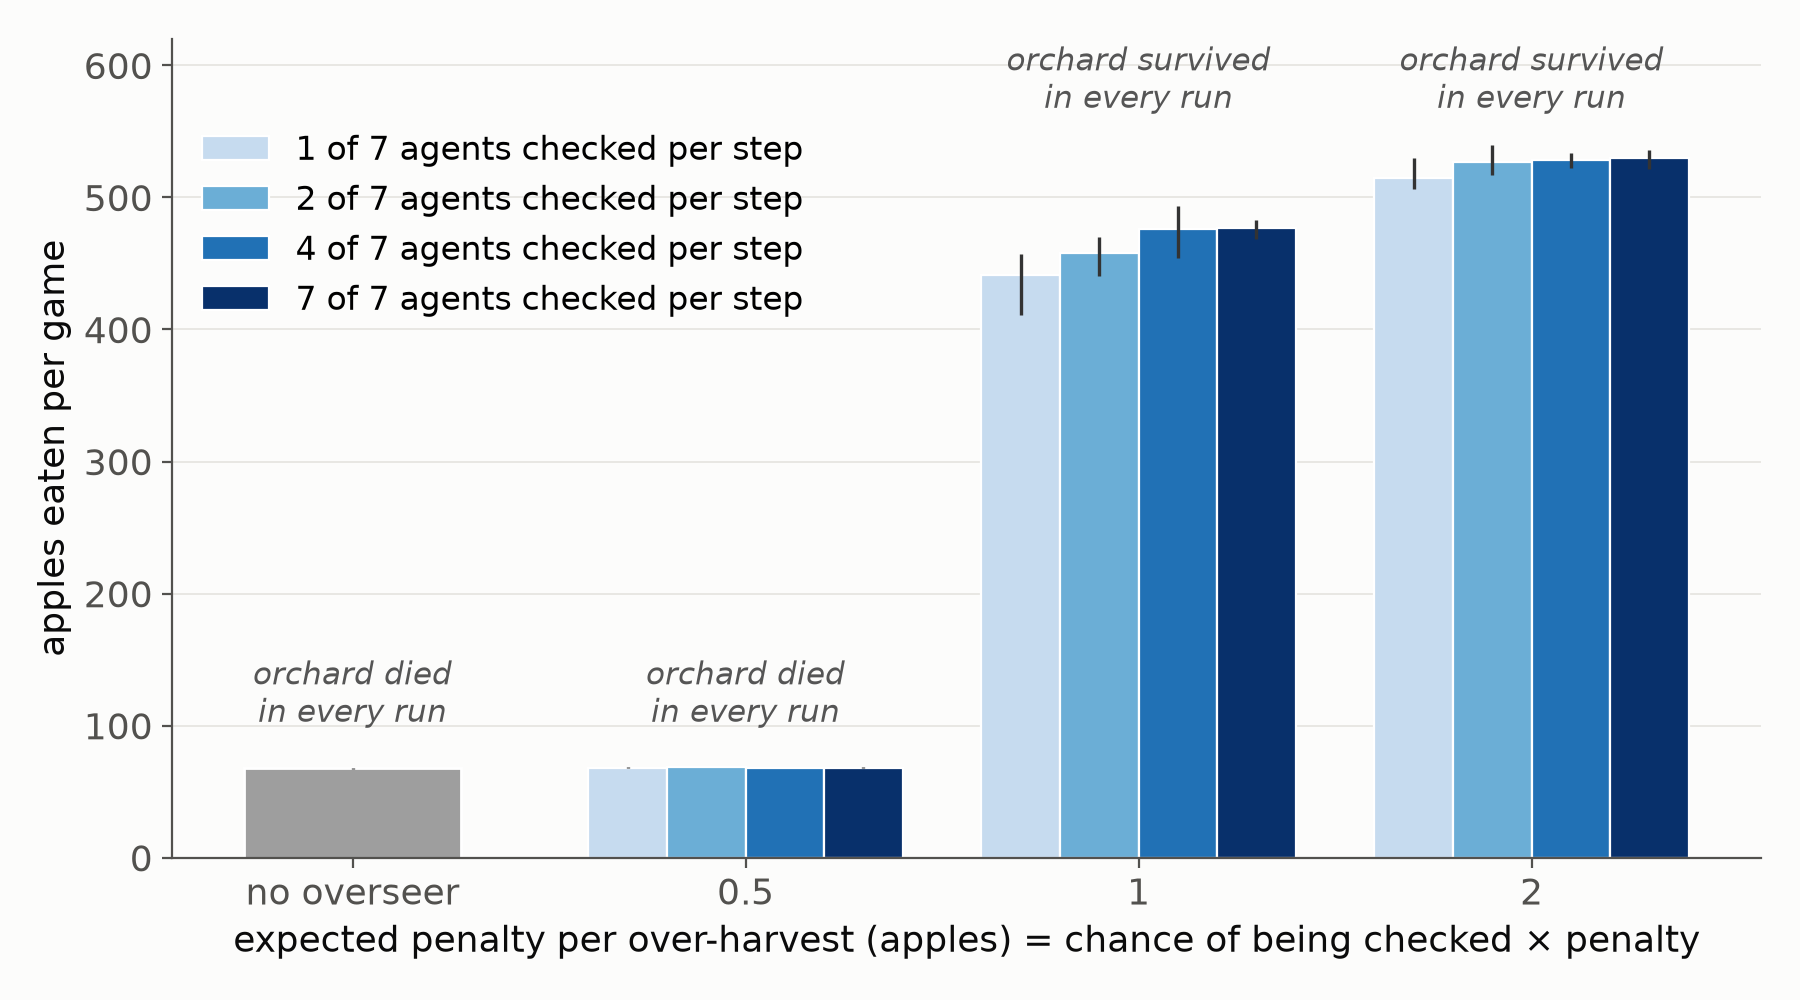
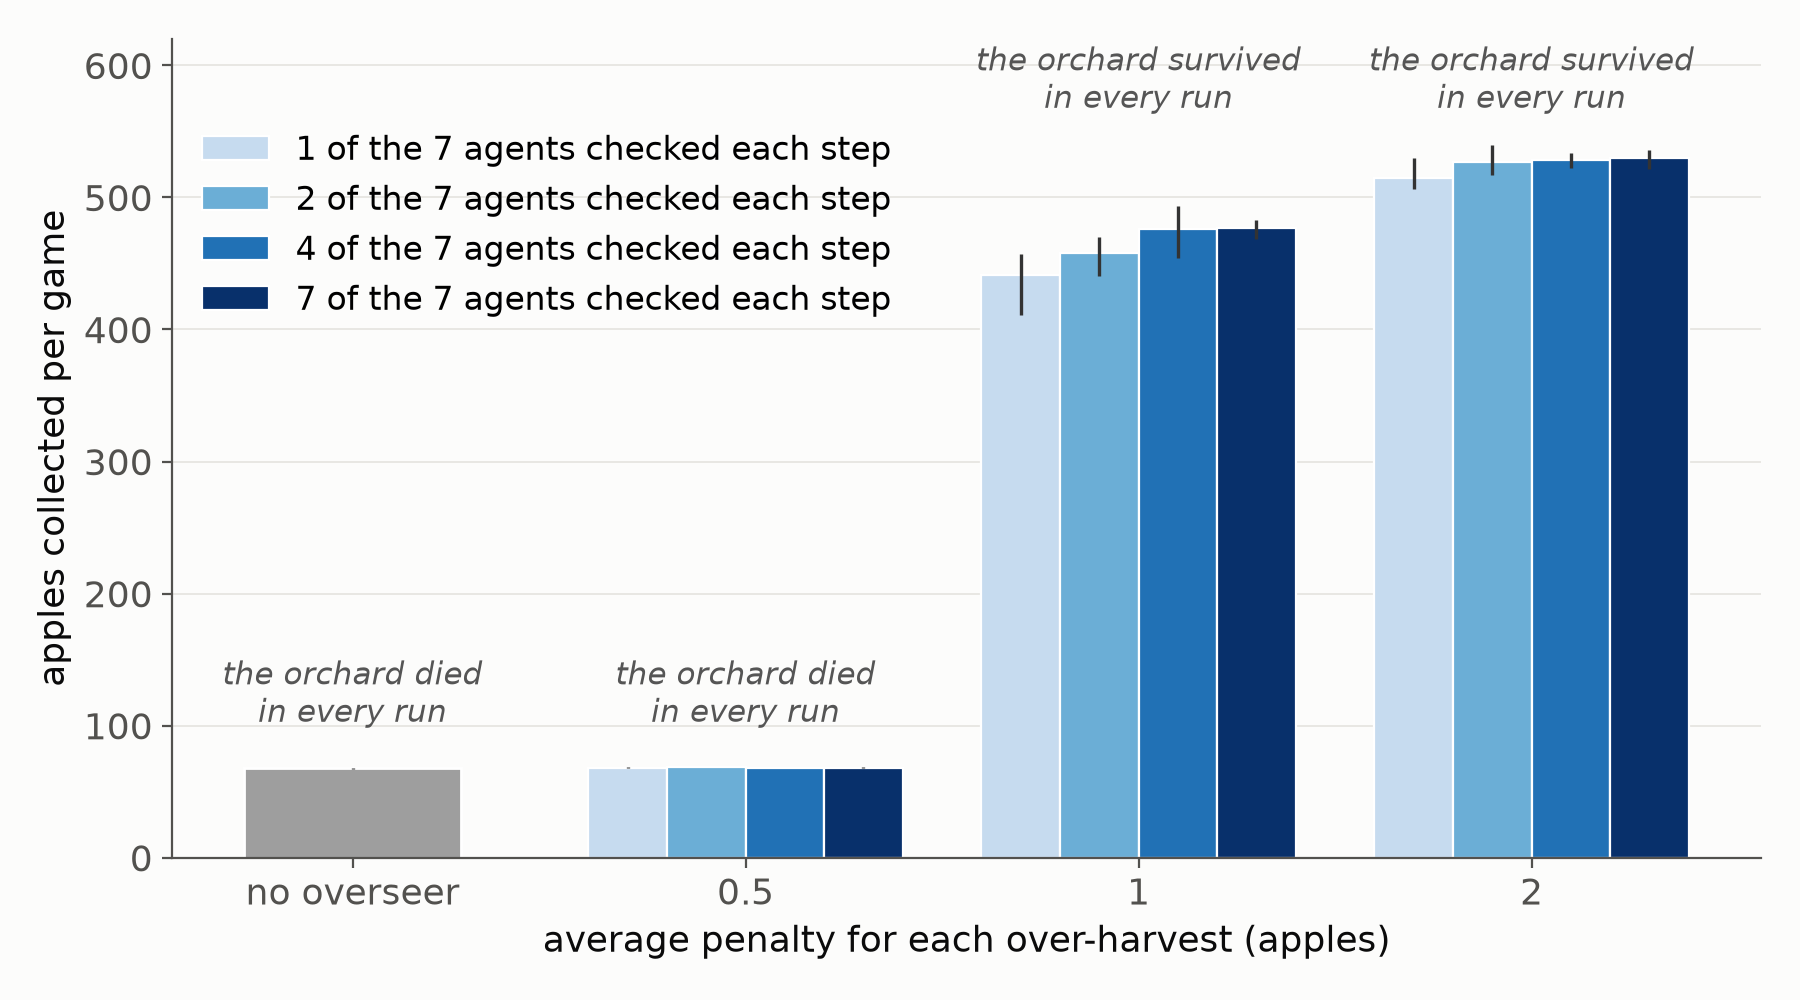
Weekly deck v3: plain spoken wording (no colons or shorthand), paper slides checked against full text (Willis: aggression usually disadvantaged), plain-label bot chart, average-penalty wording

diff --git a/notes/slides/2026-11-16_weekly_update/make_figures.py b/notes/slides/2026-11-16_weekly_update/make_figures.py
@@ -82,16 +82,15 @@ def penalty_bars():
             r = t[f"B_random_k{k}_c{c}"]["apples_eaten"]
             x = 1 + j + (i - 1.5) * w
             ax.bar(x, r["mean"], w, color=col, edgecolor="white", linewidth=0.8,
-                   label=f"{k} of 7 agents checked per step" if j == 0 else None)
+                   label=f"{k} of the 7 agents checked each step" if j == 0 else None)
             ax.errorbar(x, r["mean"], [[r["mean"] - r["lo"]], [r["hi"] - r["mean"]]], color="#333333", lw=1.2, capsize=0)
-    for x, txt in ((0, "orchard died\nin every run"), (1, "orchard died\nin every run"),
-                   (2, "orchard survived\nin every run"), (3, "orchard survived\nin every run")):
+    for x, txt in ((0, "the orchard died\nin every run"), (1, "the orchard died\nin every run"),
+                   (2, "the orchard survived\nin every run"), (3, "the orchard survived\nin every run")):
         y = 95 if x < 2 else 560
         ax.text(x, y, txt, ha="center", va="bottom" if x < 2 else "bottom", fontsize=11, color="#555555", style="italic")
     ax.set_xticks(range(4), ["no overseer", "0.5", "1", "2"])
     ax.set_ylim(0, 620)
-    ax.set(xlabel="expected penalty per over-harvest (apples) = chance of being checked × penalty",
-           ylabel="apples eaten per game")
+    ax.set(xlabel="average penalty for each over-harvest (apples)", ylabel="apples collected per game")
     ax.legend(loc="upper left", frameon=False, bbox_to_anchor=(0.0, 0.92))
     ax.grid(axis="x", visible=False)
     fig.tight_layout()
@@ -111,10 +110,27 @@ def targeting_curve():
         x = np.arange(cs.shape[1]) * 256_000 / 1e6
         ax.plot(x, cs.mean(0), color=col, lw=2.6, label=name)
         ax.fill_between(x, cs.min(0), cs.max(0), color=col, alpha=0.15, lw=0)
-    ax.set(xlabel="training steps (millions)", ylabel="apples eaten per game")
+    ax.set(xlabel="training steps (millions)", ylabel="apples collected per game")
     ax.legend(loc="center right", frameon=False, bbox_to_anchor=(1.0, 0.45))
     fig.tight_layout()
     fig.savefig(OUT / "targeting_apples.png", dpi=200)
+    plt.close(fig)
+
+
+def bots_chart():
+    """What a bot that holds back and a greedy bot each collect, by how many of the 7 hold back (week 2, no overseer)."""
+    plt.rcParams.update({"font.size": 13, "axes.labelsize": 13, "legend.fontsize": 12})
+    d = json.load(open("notes/socialjax/week2_bots/summary.json"))["schelling"]["none"]
+    ls = sorted(int(x) for x in d)
+    fig, ax = plt.subplots(figsize=(6.2, 5.0))
+    for key, col, lab in (("R_c", BLUE, "a bot that holds back"), ("R_d", ORANGE, "a greedy bot")):
+        pts = [(l, d[str(l)][key]) for l in ls if d[str(l)][key] == d[str(l)][key]]  # drop NaN (no such bot)
+        ax.plot([p[0] for p in pts], [p[1] for p in pts], "-o", color=col, lw=2.4, ms=6, label=lab)
+    ax.set_xticks(range(8))
+    ax.set(xlabel="how many of the 7 bots hold back", ylabel="apples collected per bot")
+    ax.legend(loc="upper left", frameon=False)
+    fig.tight_layout()
+    fig.savefig(OUT / "bots_dilemma.png", dpi=200)
     plt.close(fig)
 
 
@@ -123,3 +139,4 @@ if __name__ == "__main__":
     abstracts()
     penalty_bars()
     targeting_curve()
+    bots_chart()
